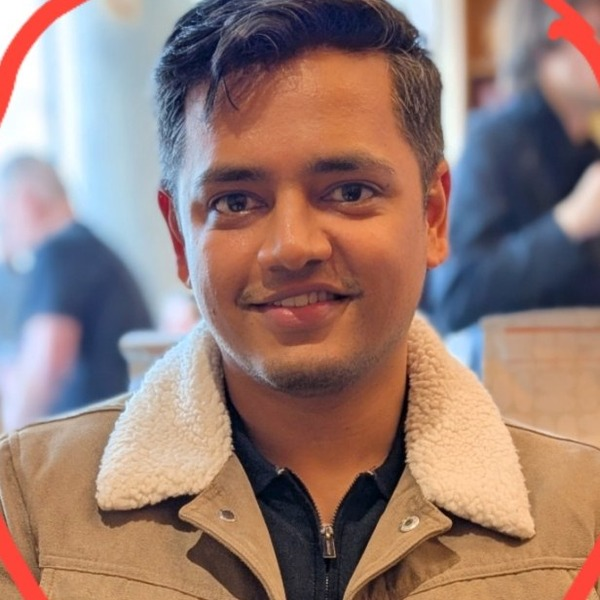
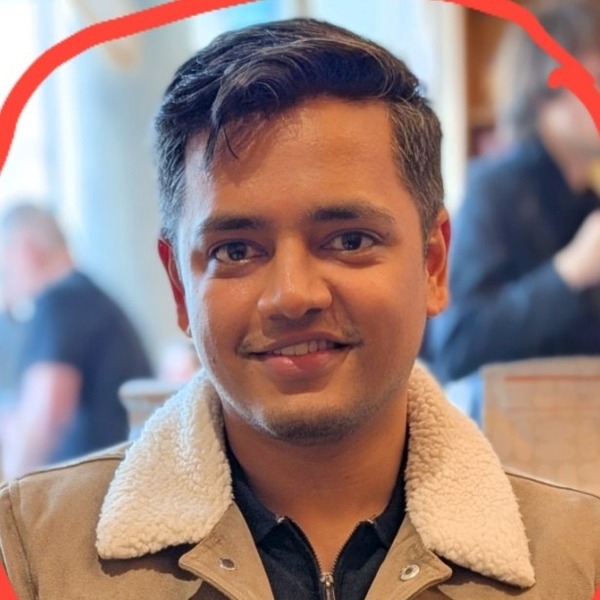
Shift portrait crop down for more headroom

diff --git a/index.html b/index.html
@@ -1321,7 +1321,7 @@
               <span class="chrome"><i>-</i><i>[]</i><i>x</i></span>
             </div>
             <div class="welcome-body">
-              <img class="portrait" src="Vatsal.jpg?v=2" alt="Vatsal Mishra" width="140" height="140">
+              <img class="portrait" src="Vatsal.jpg?v=3" alt="Vatsal Mishra" width="140" height="140">
               <div>
                 <p class="eyebrow">generalist builder | Google Dublin | self-hosted everything</p>
                 <h1>Vatsal builds <span>useful systems</span></h1>